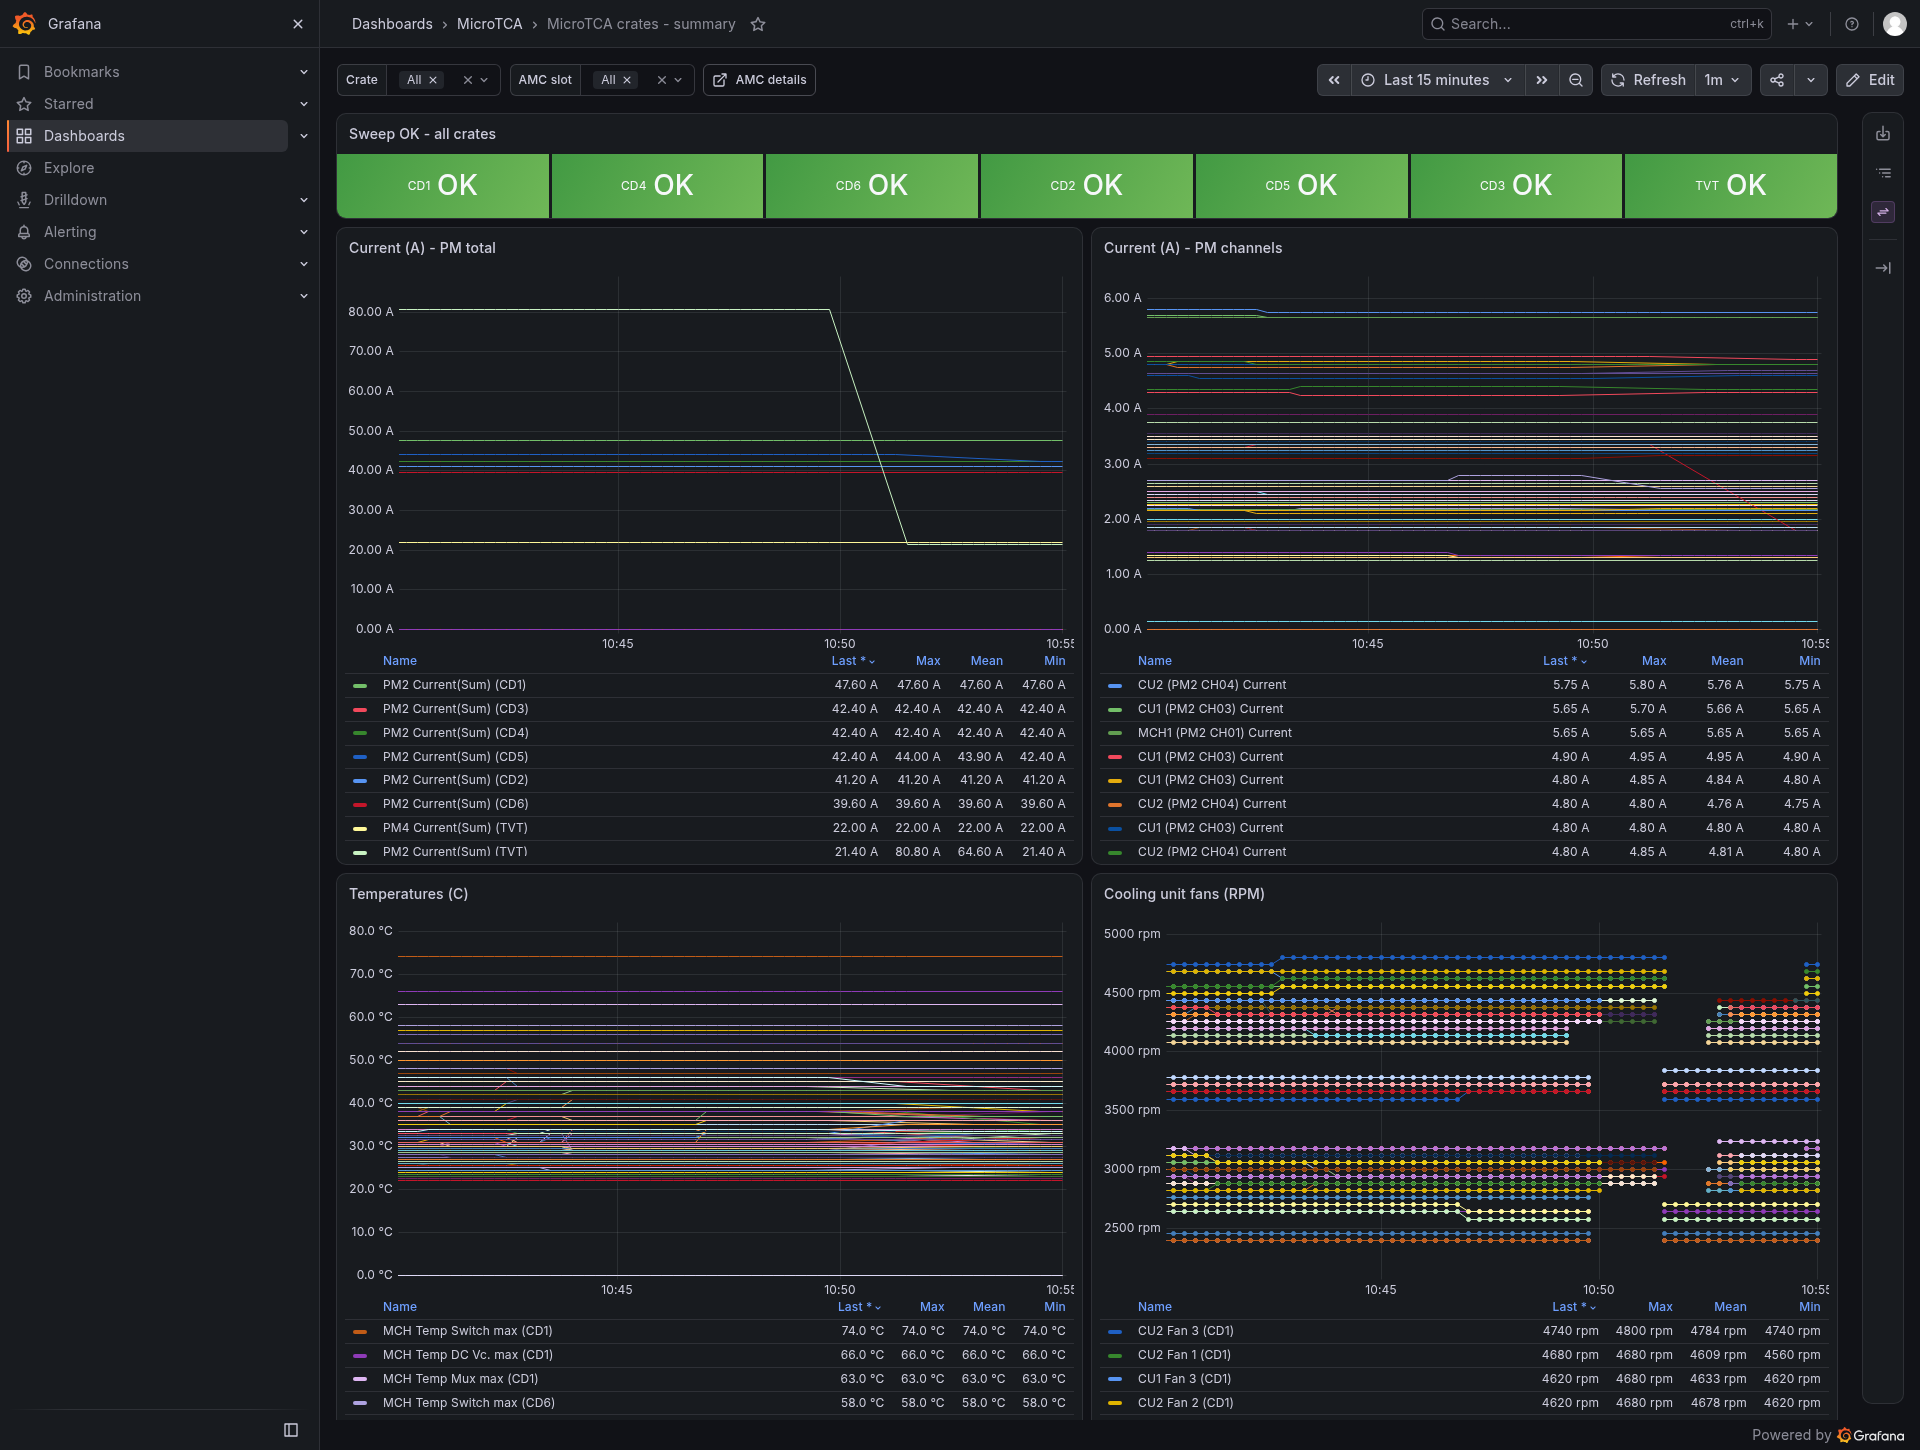
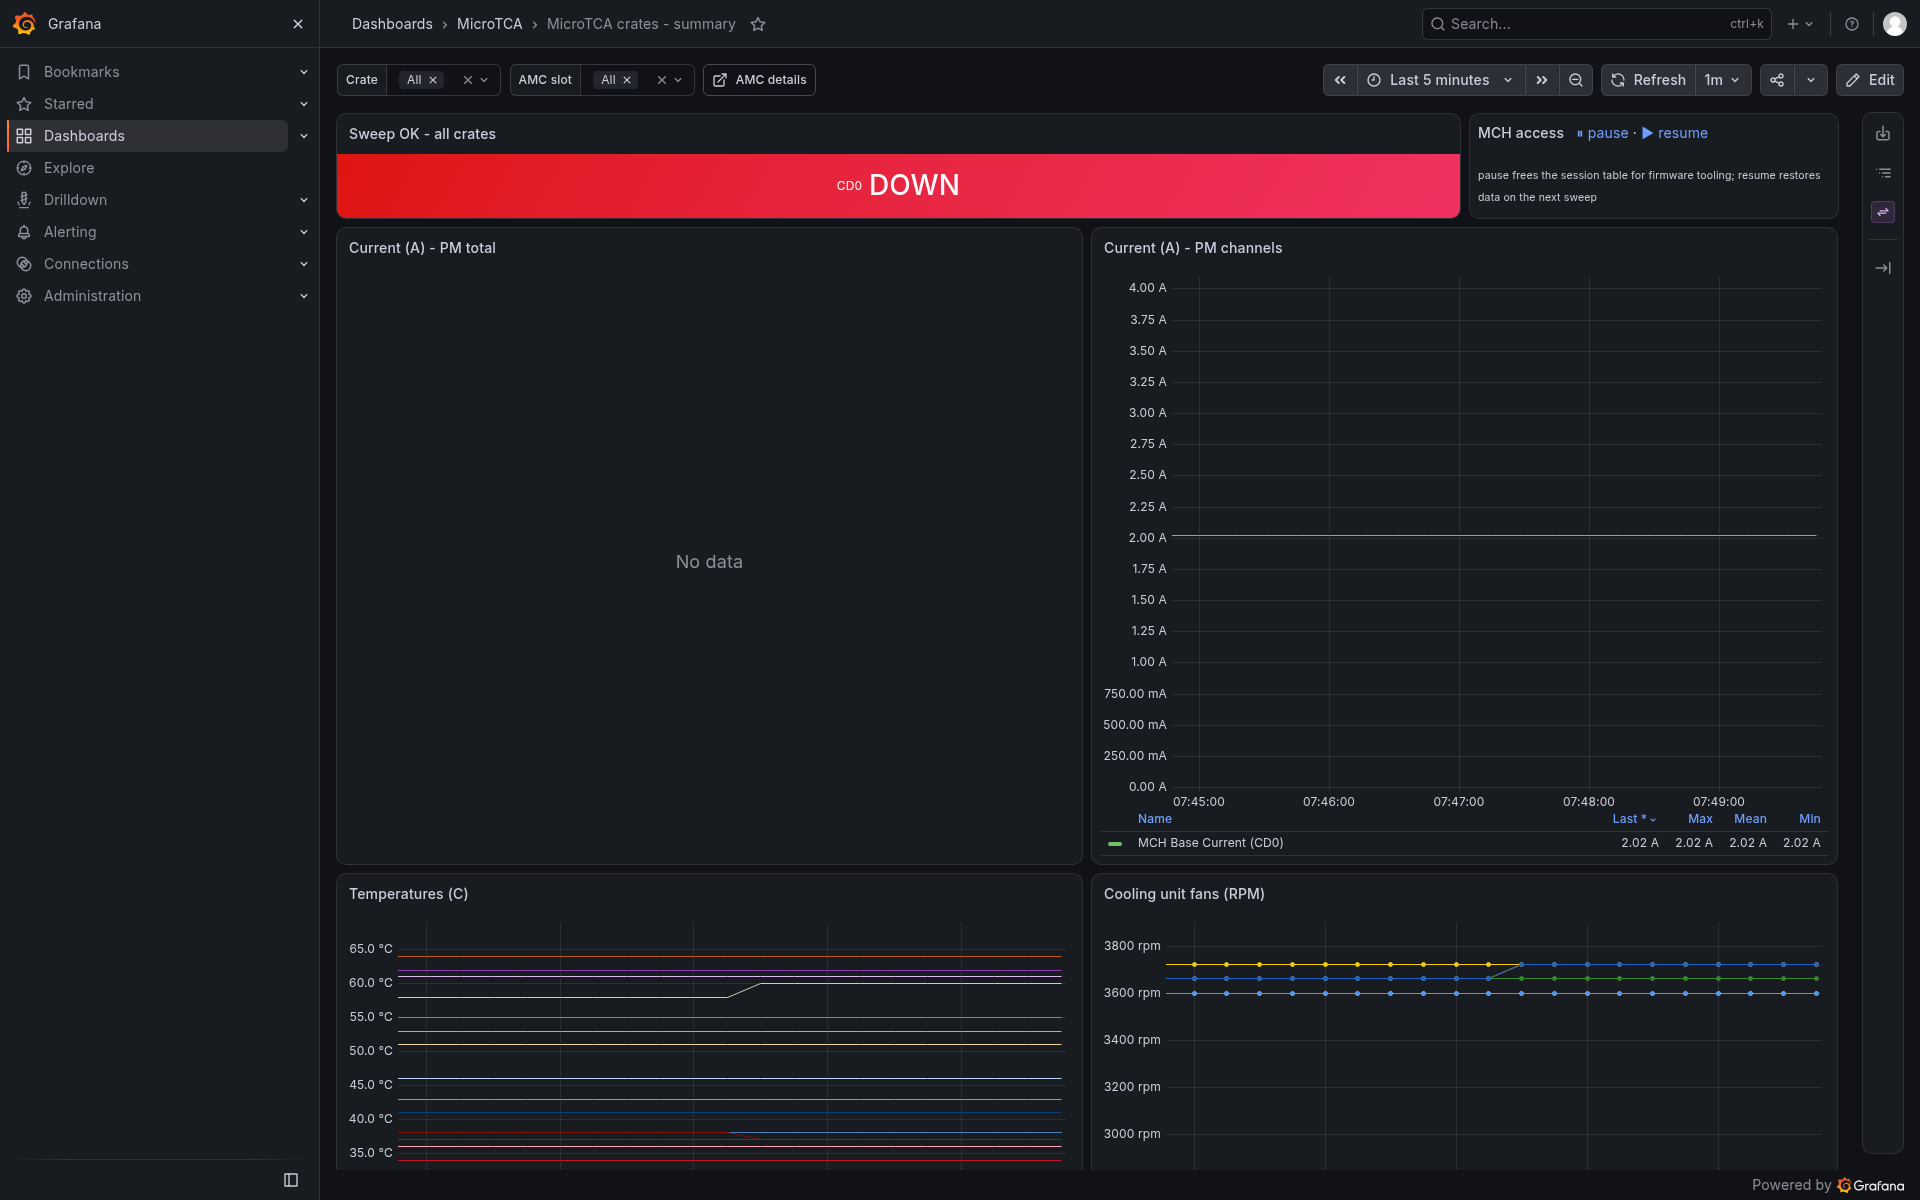
control endpoint: pause/resume the exporter
The MCH's IPMI session table is the scarce resource, and it is shared with
whatever else talks to the crate (firmware flashing, an interactive ipmitool).
A second consumer produces 'Get Session Challenge failed: Node busy' and the
exporter falls back to partial sweeps.

  GET /pause[?crate=CD1]    stop the exporter(s) -- yield the MCH
  GET /resume[?crate=CD1]   start again; data returns on the next sweep

The summary dashboard carries pause/resume links beside the Sweep OK tile.

diff --git a/src/mch_control.py b/src/mch_control.py
@@ -3,6 +3,8 @@
 
     GET /health
     GET /rescan?crate=CD1[&dry=1][&token=...]
+    GET /pause[?crate=CD1]      stop the exporter(s): yield the MCH
+    GET /resume[?crate=CD1]     start them again
     GET /status
 
 A rescan stops the crate's exporter, re-inventories the crate and starts the
@@ -41,6 +43,10 @@ lock = threading.Lock()
 def known_crates():
     from mch_names import load
     return {c["name"] for c in load(os.path.join(CRATES, "crate-aliases.json"))}
+
+
+def unit(verb, crate):
+    return subprocess.call(["systemctl", "--user", verb, "mch-exporter@%s" % crate])
 
 
 def run_scan(crate):
@@ -94,6 +100,25 @@ class Handler(BaseHTTPRequestHandler):
 
         if u.path.rstrip("/") == "/health":
             return self._send(200, {"ok": True, "crates": sorted(known_crates())})
+
+        if u.path.rstrip("/") in ("/pause", "/resume"):
+            if TOKEN and q.get("token") != TOKEN:
+                return self._send(403, {"error": "bad token"})
+            crate = q.get("crate", "")
+            known = known_crates()
+            if crate and crate not in known:
+                return self._send(404, {"error": "%s is not in crate-aliases.json" % crate})
+            targets = [crate] if crate else sorted(known)
+            verb = "stop" if u.path.rstrip("/") == "/pause" else "start"
+            results = {c: unit(verb, c) for c in targets}
+            with lock:
+                for c in targets:
+                    jobs.setdefault(c, {})["state"] = (
+                        "paused" if verb == "stop" else "starting")
+            return self._send(200, {"action": verb, "crates": results,
+                                    "note": "pause frees the MCH's session table "
+                                            "for other tooling; resume brings "
+                                            "data back on the next sweep"})
 
         if u.path.rstrip("/") == "/status":
             with lock:
